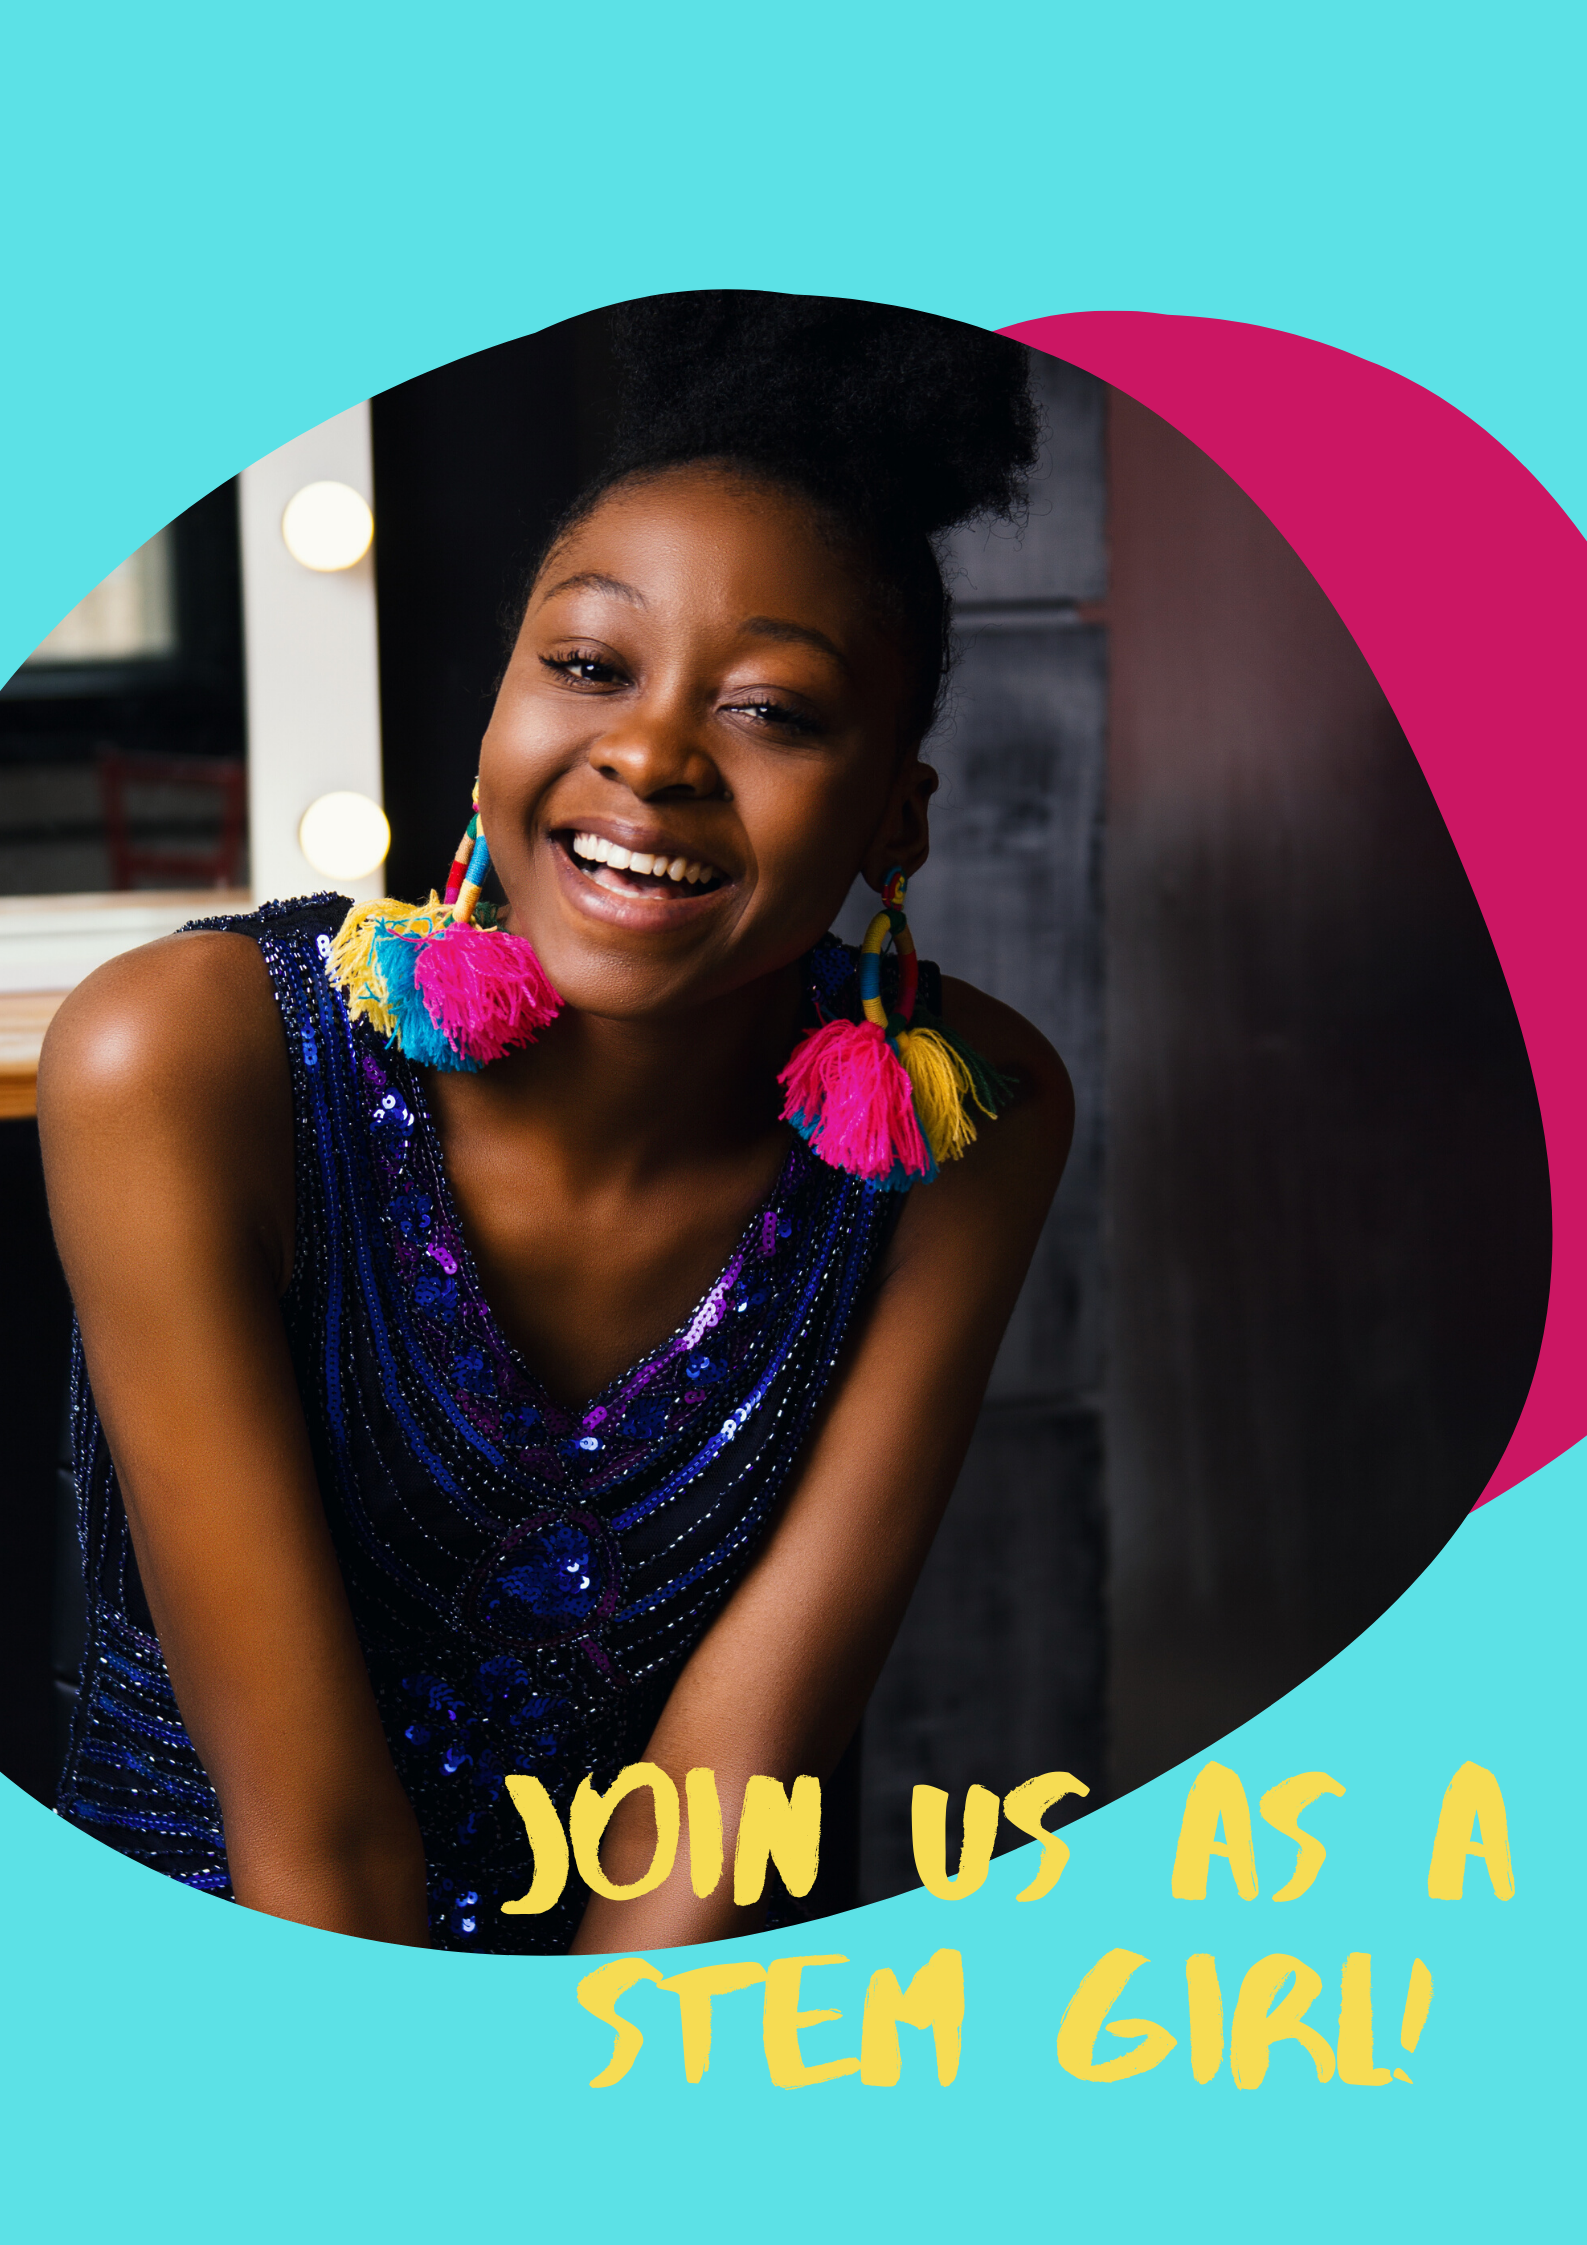
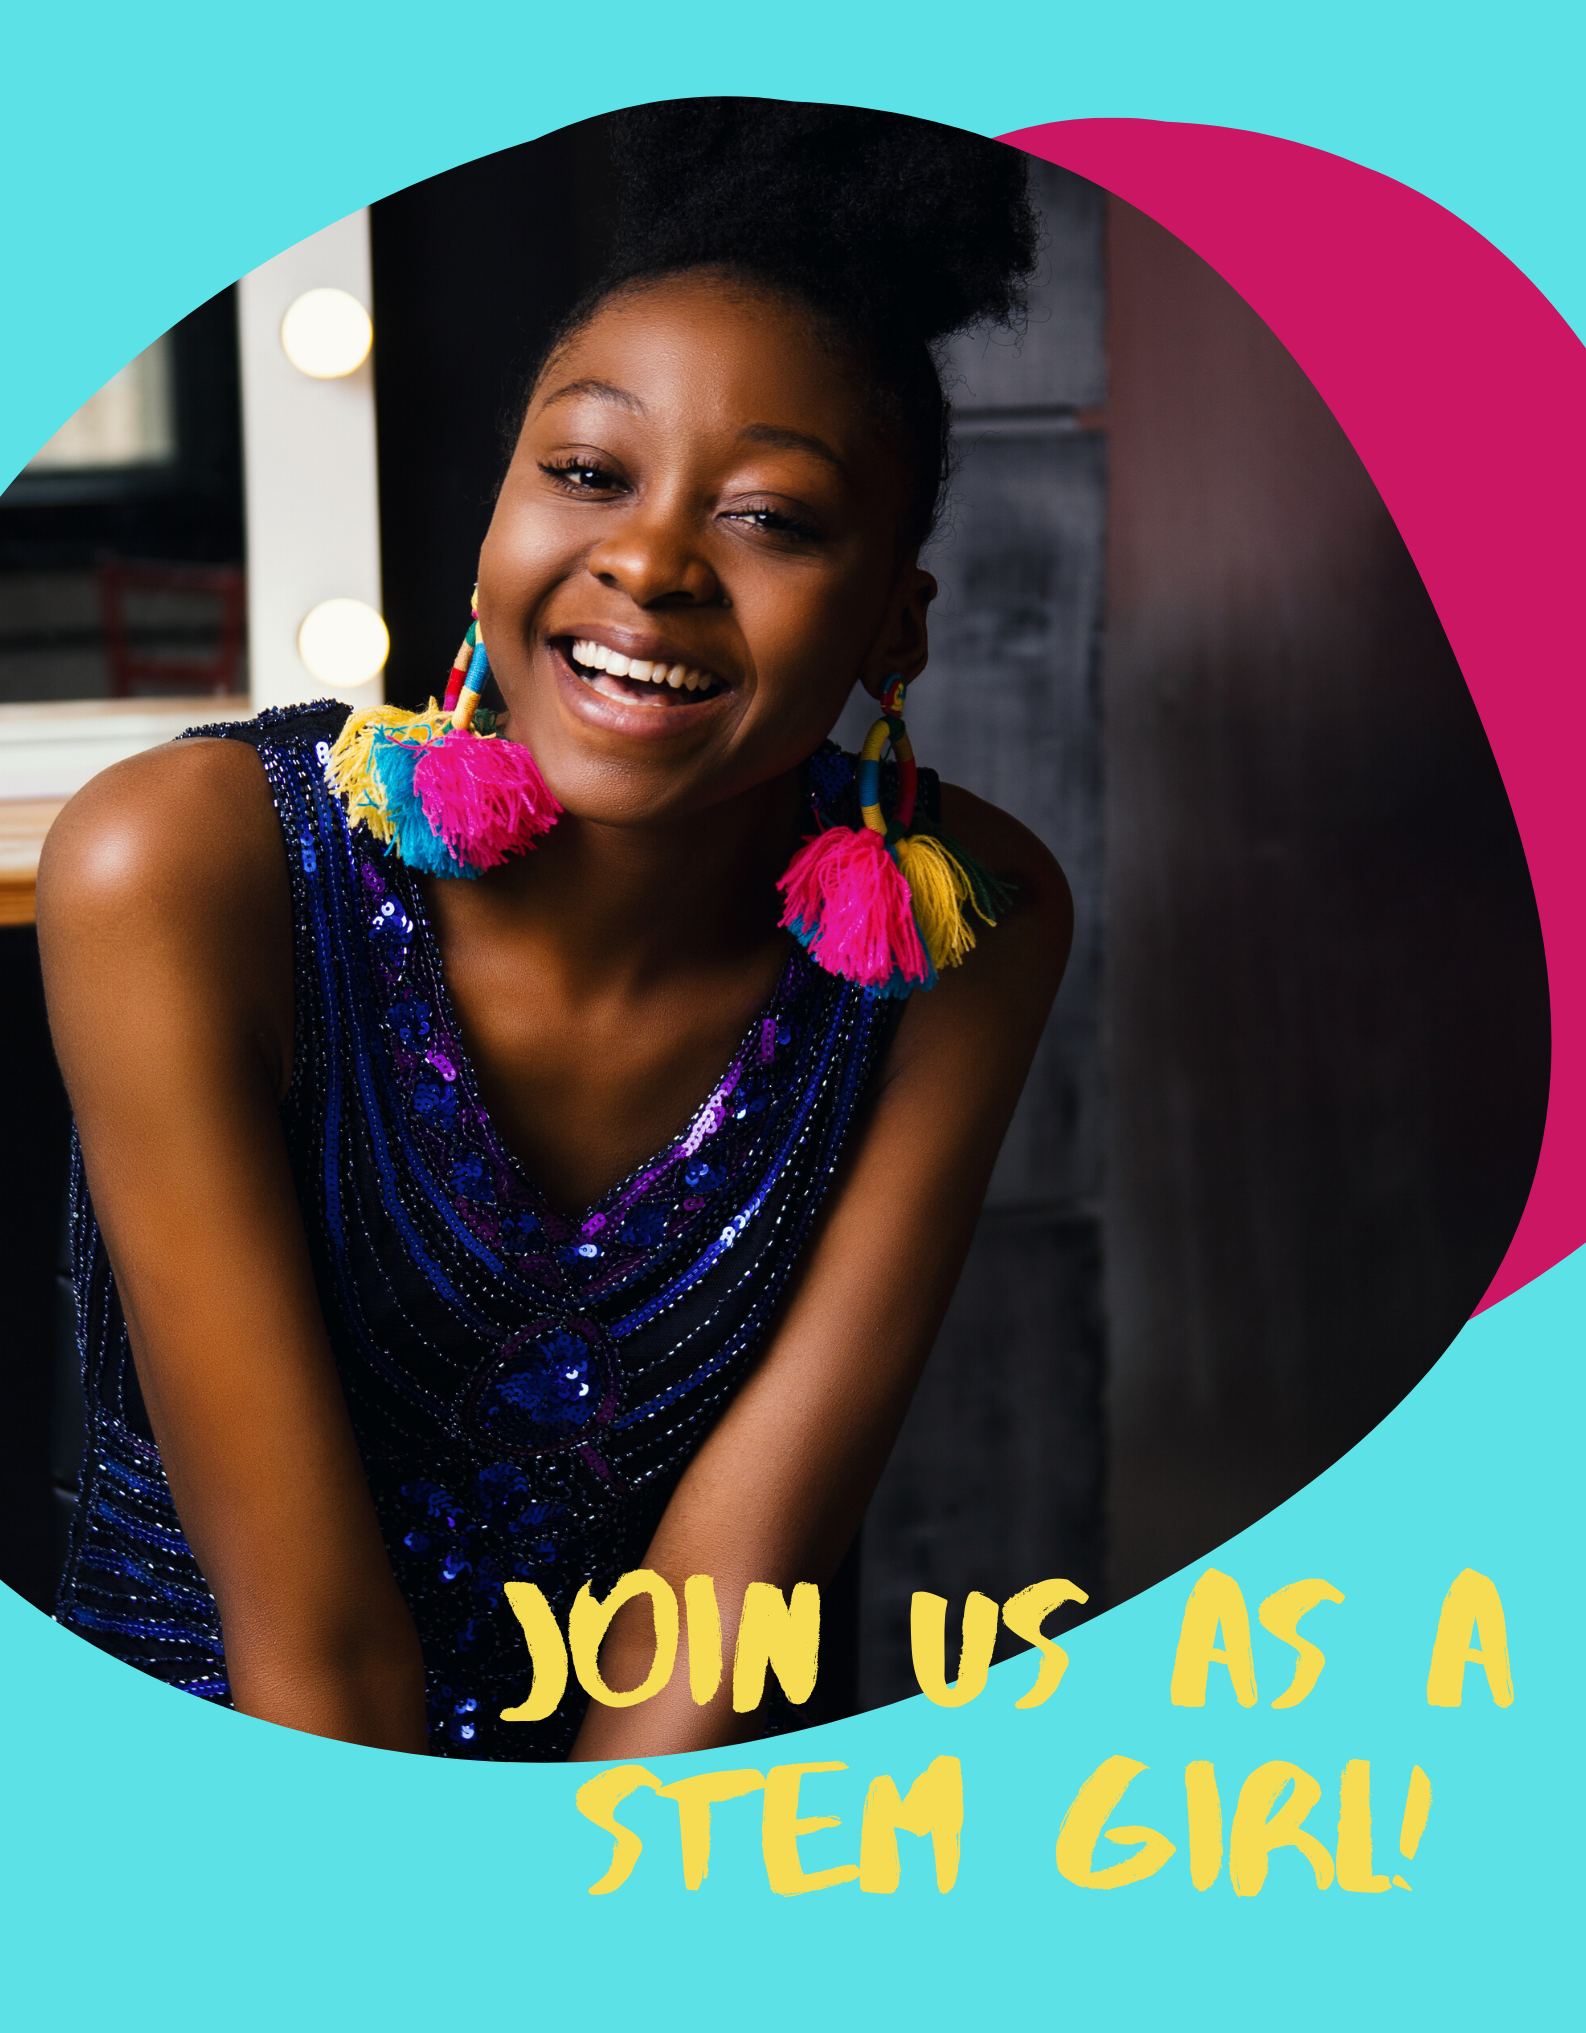
complete navigation

diff --git a/index.html b/index.html
@@ -5,10 +5,13 @@
     <meta name="viewport" content="width=device-width">
     <title>STEM GIRLS</title>
     <link rel="stylesheet" href="styles\main_style.css">
+    <link rel="stylesheet" href="styles\nav_style.css">
     <link rel="icon" type="image/png" href="assets\tentative logo-round.png">
     <link href="https://fonts.googleapis.com/css2?family=Raleway&display=swap" rel="stylesheet">
     <link href="https://fonts.googleapis.com/css2?family=Libre+Baskerville&display=swap" rel="stylesheet">
     <link href="https://fonts.googleapis.com/css2?family=Indie+Flower&display=swap" rel="stylesheet">
+    <script src="https://cdnjs.cloudflare.com/ajax/libs/jquery/3.5.1/jquery.min.js"
+    integrity="sha256-9/aliU8dGd2tb6OSsuzixeV4y/faTqgFtohetphbbj0=" crossorigin="anonymous"></script>
   </head>
   <body>
 
@@ -17,10 +20,52 @@
       <header>
         <div class="top">
           <div class="stem_logo">
-            <img src="assets\tentative logo-round.png"
-            alt="STEM girls logo: a glowing bulb" width="100%" height="100%">
+            <a href="index.html">
+              <img src="assets\tentative logo-round.png"
+              alt="STEM girls logo: a glowing bulb" width="100%" height="100%">
+            </a>
           </div>
+          <div class="nav_icon">
+            &#9776;
+          </div>
+          <nav class="sidebar">
+            <div class="sidebar_icon">
+               <span class="close">&#10005;</span>
+               <p style="text-align: center">MENU</p>
+            </div>
+            <ul>
+              <li>
+                <a href="index.html"><b>Home</b></a>
+              </li>
+              <li>
+                <a href=""><b>Become a STEM GIRL</b></a>
+              </li>
+              <li>
+                <b>Get Involved</b>
+                <ul>
+                  <li>
+                    <a href="">Mentor/ Volunteer</a>
+                  </li>
+                  <li>
+                    <a href="">Partner/ Friend</a>
+                  </li>
+                  <li>
+                    <a href="">Ambassador</a>
+                  </li>
+                  <li>
+                    <a href="">Friend</a>
+                  </li>
+                </ul>
+              </li>
+              <li>
+                <a href="#"><b>FAQs</b></a>
+              </li>
+              <li><a href="#"><b>About Us</b></a></li>
+            </ul>
+          </nav>
         </div>
+
+
         <div class="jumbotron">
           <div class="jumbotron_text">
             <h1>
@@ -30,11 +75,12 @@
               STEM stands for Science, Technology, <br>Engineering and Mathematics.
               <br>Join us Today as a STEM Girl.
             </p>
+            <button type="button" name="button" href="">Become a STEM Girl</button>
           </div>
           <div class="jumbotron_img">
             <img src="assets\new cover page 06.12.png"
             alt="A picture of a builtiful African STEM girl" width="100%" height="90%">
-            <button type="button" name="button" href="">
+            <button type="button" name="button" href="" id="mobile_button">
               Become a STEM Girl
             </button>
           </div>
@@ -59,7 +105,7 @@
             </p>
             <p>
                 The initiative lays the foundation for tomorrow's female medical
-                doctors, enginers among others and its programs aims to improve
+                doctors, engineers among others and its programs aims to improve
                 girls'academic performance/ grades in STEM subjects and increase
                 their enrolments in STEM majors in Tertiary Institutions.
             </p>
@@ -202,5 +248,9 @@
         </div>
       </main>
     </div>
+    <!--  Javascript function file for the navigation toggle-->
+    <script type="text/javascript" src="script\nav_script.js">
+
+    </script>
   </body>
 </html>

diff --git a/styles/main_style.css b/styles/main_style.css
@@ -17,6 +17,8 @@
     width: 100%;
     background-color:#5CE1E6;
     height: 60px;
+    position: fixed;
+    top: 0px;
   }
 
   .stem_logo{
@@ -24,20 +26,36 @@
     height: 90;
     margin-left: 5%;
     padding-top: 2%;
+    float: left;
+  }
+  .nav_icon{
+    margin-right: 10%;
+    color: white;
+    float: right;
+    font-size: 25px;
+    margin-top: 4%;
+  }
+
+  .nav_icon:hover{
+    background-color: white;
+    color: silver;
+    cursor: context-menu;
   }
 
   .jumbotron{
     width: 100%;
     background-color: #5CE1E6;
     height: 600px;
+    margin-top: 60px;
   }
+
   .jumbotron_text{
     display: none;
   }
 
   .jumbotron_img{
     width: 100%;
-    height: 95%;
+    height: 90%;
   }
 
   main{
@@ -76,7 +94,7 @@
   }
 
   #stem_girl{
-    position: relative;
+    position: inherit;
     top: -2%;
     left: -2%;
   }
@@ -101,10 +119,9 @@
 
 .initiatives_list{
   width: 100%;
-  background-color: #6171FF;
+  background-color: #94a4fc;
   padding: 5% 0;
   border-radius:  10px;
-  opacity: 60%;
   color: #FFF4D0;
 }
 
@@ -172,13 +189,14 @@
 */
 button{
   border-color: yellow;
-  margin-left: 60%;
+  margin-left: 50%;
   background-color: #4EE2EC;
   color:  #CA226B;
   border: 2px solid #CA226B;
   height: 40px;
   border-radius: 5px;
   font-size: 1em;
+  width: auto;
 }
 
 button:hover{
@@ -192,6 +210,7 @@ button:hover{
   color: #00285B;
   background-color: inherit;
   height: 40px;
+  width: auto;
 }
 
 .join button:hover{
@@ -199,7 +218,9 @@ button:hover{
   color: white;
 }
 
-
+.jumbotron .first_content .second_content .third_content .forth_content{
+  position: relative;
+}
 
 
 /* Styling for desktop view
@@ -224,7 +245,11 @@ h1{
 
 .stem_logo{
   width: 5%;
+}
 
+.nav_icon{
+  margin-top: 2%;
+  font-size: 30px;
 }
 
 .jumbotron{
@@ -238,7 +263,7 @@ h1{
 .jumbotron_text{
   width: 35%;
   margin-right: 4%;
-  margin-top: 8%;
+  margin-top: 5%;
   display: block;
 }
 
@@ -337,6 +362,13 @@ justify-content: space-between;
   width: 32%;
   margin: 2% 1%;
 }
+button{
+  margin-left: 0%;
+}
+
+#mobile_button{
+  display: none;
+}
 
 .join button{
   margin-left: 0.5%;
@@ -359,6 +391,9 @@ justify-content: space-between;
   }
   .top{
     height: 90px;
+  }
+  .jumbotron{
+    margin-top: 90px;
   }
 
 }

diff --git a/styles/nav_style.css b/styles/nav_style.css
@@ -1,0 +1,62 @@
+
+
+
+.sidebar{
+  position: fixed;
+  padding-top: 2%;
+  top: 0px;
+  right: 0px;
+  background-color: white;
+  width: 80%;
+  height: 100%;
+  font-family: 'Raleway', sans-serif;
+  font-size: 1em;
+  line-height: 2em;
+  display: none;
+}
+
+.sidebar ul li {
+  list-style-type: none;
+  border-bottom: 1px solid grey;
+  margin: auto;
+  padding-top: 2%;
+  padding-bottom: 2%;
+  padding-right: 5%;
+}
+
+.sidebar ul li a{
+  text-decoration: none;
+  color: black;
+}
+
+.sidebar ul li:last-child{
+  border-bottom: none;
+}
+
+.sidebar ul li a:hover{
+  color: #a6a6a6;
+}
+
+.sidebar ul ul li{
+  border-bottom: none;
+  padding-top: 0.5%;
+  padding-bottom: .5%;
+}
+
+
+.close{
+  margin-left: 2%;
+  margin-top: .5%;
+}
+
+.close:hover {
+  background-color: #ff8080;
+  cursor: context-menu;
+}
+
+
+@media screen and (min-width: 868px){
+  .sidebar{
+    width: 20%;
+  }
+}

diff --git a/script/nav_script.js b/script/nav_script.js
@@ -1,0 +1,11 @@
+
+
+
+$(document).ready(function(){
+  $(".nav_icon").click(function(){
+    $(".sidebar").css("display", "block");
+  })
+  $(".close").click(function(){
+    $(".sidebar").css("display", "none");
+  })
+})
